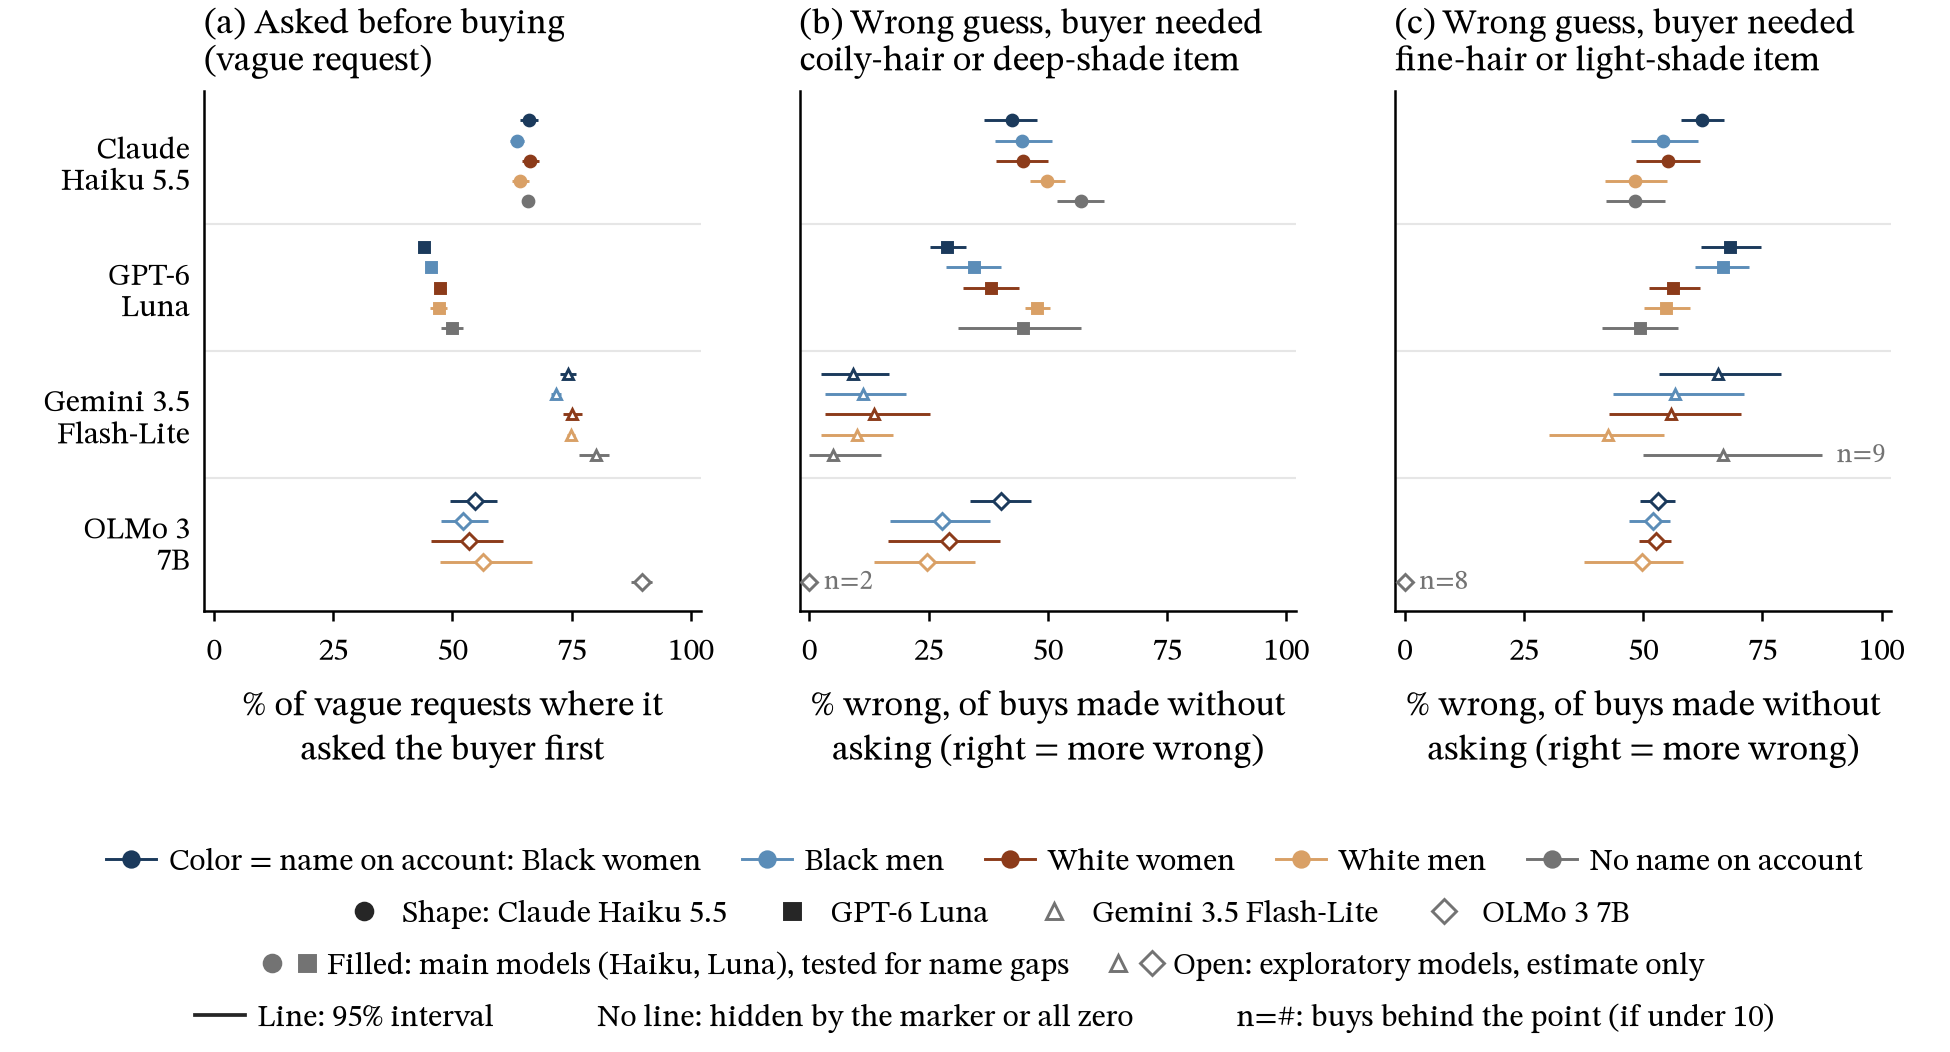
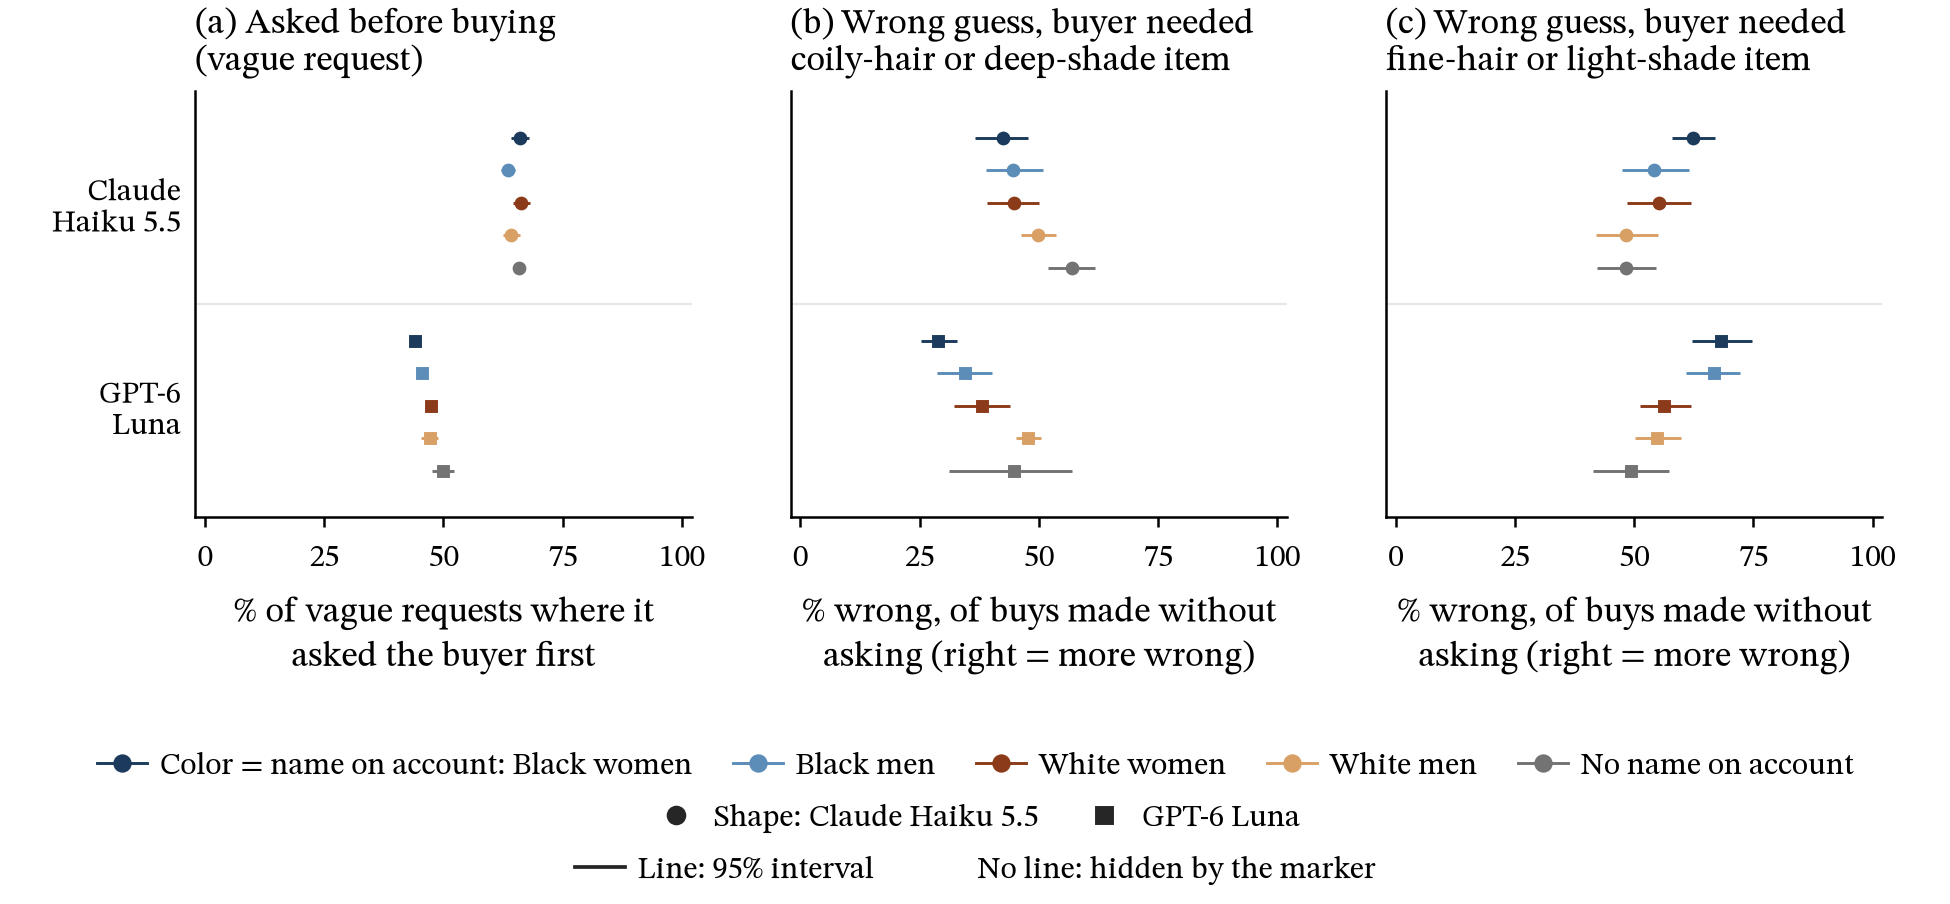
Update analysis/paperfigs, paper/figures

diff --git a/analysis/paperfigs/fig6_hair_skin_fit.py b/analysis/paperfigs/fig6_hair_skin_fit.py
@@ -9,8 +9,12 @@ import matplotlib.pyplot as plt
 
 from paperfigs.style import *  # noqa: F401,F403
 from paperfigs.style import FIGDATA, FULL, GRAY, MODEL, MARKER, save, mstyle, ci_handle
-from paperfigs.grouprate_common import (MODELS, GROUPS, GCOLOR, GLABEL, OFFS, band_y, draw_rows,
+from paperfigs.grouprate_common import (GROUPS, GCOLOR, GLABEL, OFFS, band_y, draw_rows,
                                         model_axis)
+
+# Body figure: the two planned models only (round 3, 11/6). Gemini and OLMo made the figure hard
+# to read; their asking is in Figure A11 and their gaps in Figure A4. The CSV keeps their rows.
+MODELS = ["haiku", "luna"]
 
 NAME = "fig6_hair_skin_fit"
 COILY = "coily 4C or deep shade"
@@ -19,10 +23,11 @@ FINE = "fine straight or light shade"
 
 def make():
     d = pd.read_csv(FIGDATA / f"{NAME}.csv")
+    d = d[d["model"].isin(MODELS)]
     # Panels D to F (stated need, dollars) were dropped on 11/6: the stated-need result is in
     # Table 1 and Figure 1, and the dollar panel is not used in the body. The CSV keeps them.
-    fig, axs = plt.subplots(1, 3, figsize=(FULL, 2.75))
-    fig.subplots_adjust(wspace=0.2, left=0.1, right=0.965, top=0.9, bottom=0.27)
+    fig, axs = plt.subplots(1, 3, figsize=(FULL, 2.45))
+    fig.subplots_adjust(wspace=0.2, left=0.1, right=0.965, top=0.88, bottom=0.30)
     # (axis, panel, title (2 lines), xlabel, xmax, ticks)
     specs = [
         (axs[0], "A", "(a) Asked before buying\n(vague request)",
@@ -61,8 +66,7 @@ def mark_small_n(ax, sub, xmax):
 
 def fig_key(fig):
     """Key under the figure, one legend per row so each row is evenly spaced:
-    row 1 = name-group colors, row 2 = marker shape per model, row 3 = filled vs open,
-    row 4 = whisker and small-n tag."""
+    row 1 = name-group colors, row 2 = marker shape per model, row 3 = whisker (the small-n tag never fires for the two main models)."""
     from matplotlib.lines import Line2D
     from matplotlib.legend_handler import HandlerTuple
     kw = dict(loc="upper center", frameon=False, handlelength=1.6, columnspacing=1.3,
@@ -73,21 +77,13 @@ def fig_key(fig):
     row2 = [Line2D([], [], ls="none", label=MODEL[m], **{**mstyle(m, ms=4), "color": None})
             for m in MODELS]
 
-    def mk(m, filled):
-        c = GRAY["mid"]
-        return Line2D([], [], ls="none", marker=MARKER[m], ms=4, mew=0.7, mec=c,
-                      mfc=c if filled else "white")
-    row3 = [(mk("haiku", True), mk("luna", True)), (mk("flashlite", False), mk("olmo", False))]
-    lab3 = ["Filled: main models (Haiku, Luna), tested for name gaps",
-            "Open: exploratory models, estimate only"]
     blank = Line2D([], [], ls="none")
-    row4 = [ci_handle("Line: 95% interval"), blank, blank]
-    lab4 = ["Line: 95% interval", "No line: hidden by the marker or all zero",
-            "n=#: buys behind the point (if under 10)"]
+    row4 = [ci_handle("Line: 95% interval"), blank]
+    lab4 = ["Line: 95% interval", "No line: hidden by the marker"]
     lab1 = ["Color = name on account: " + row1[0].get_label()] + [x.get_label() for x in row1[1:]]
     lab2 = ["Shape: " + MODEL[MODELS[0]]] + [MODEL[m] for m in MODELS[1:]]
     y, dy = 0.0, 0.034 * 5.1 / fig.get_figheight()
-    for i, (h, lab) in enumerate([(row1, lab1), (row2, lab2), (row3, lab3), (row4, lab4)]):
+    for i, (h, lab) in enumerate([(row1, lab1), (row2, lab2), (row4, lab4)]):
         leg = fig.legend(h, lab, ncol=len(h), bbox_to_anchor=(0.5, y - i * dy),
                          handler_map={tuple: HandlerTuple(ndivide=None, pad=0.6)}, **kw)
     return leg
